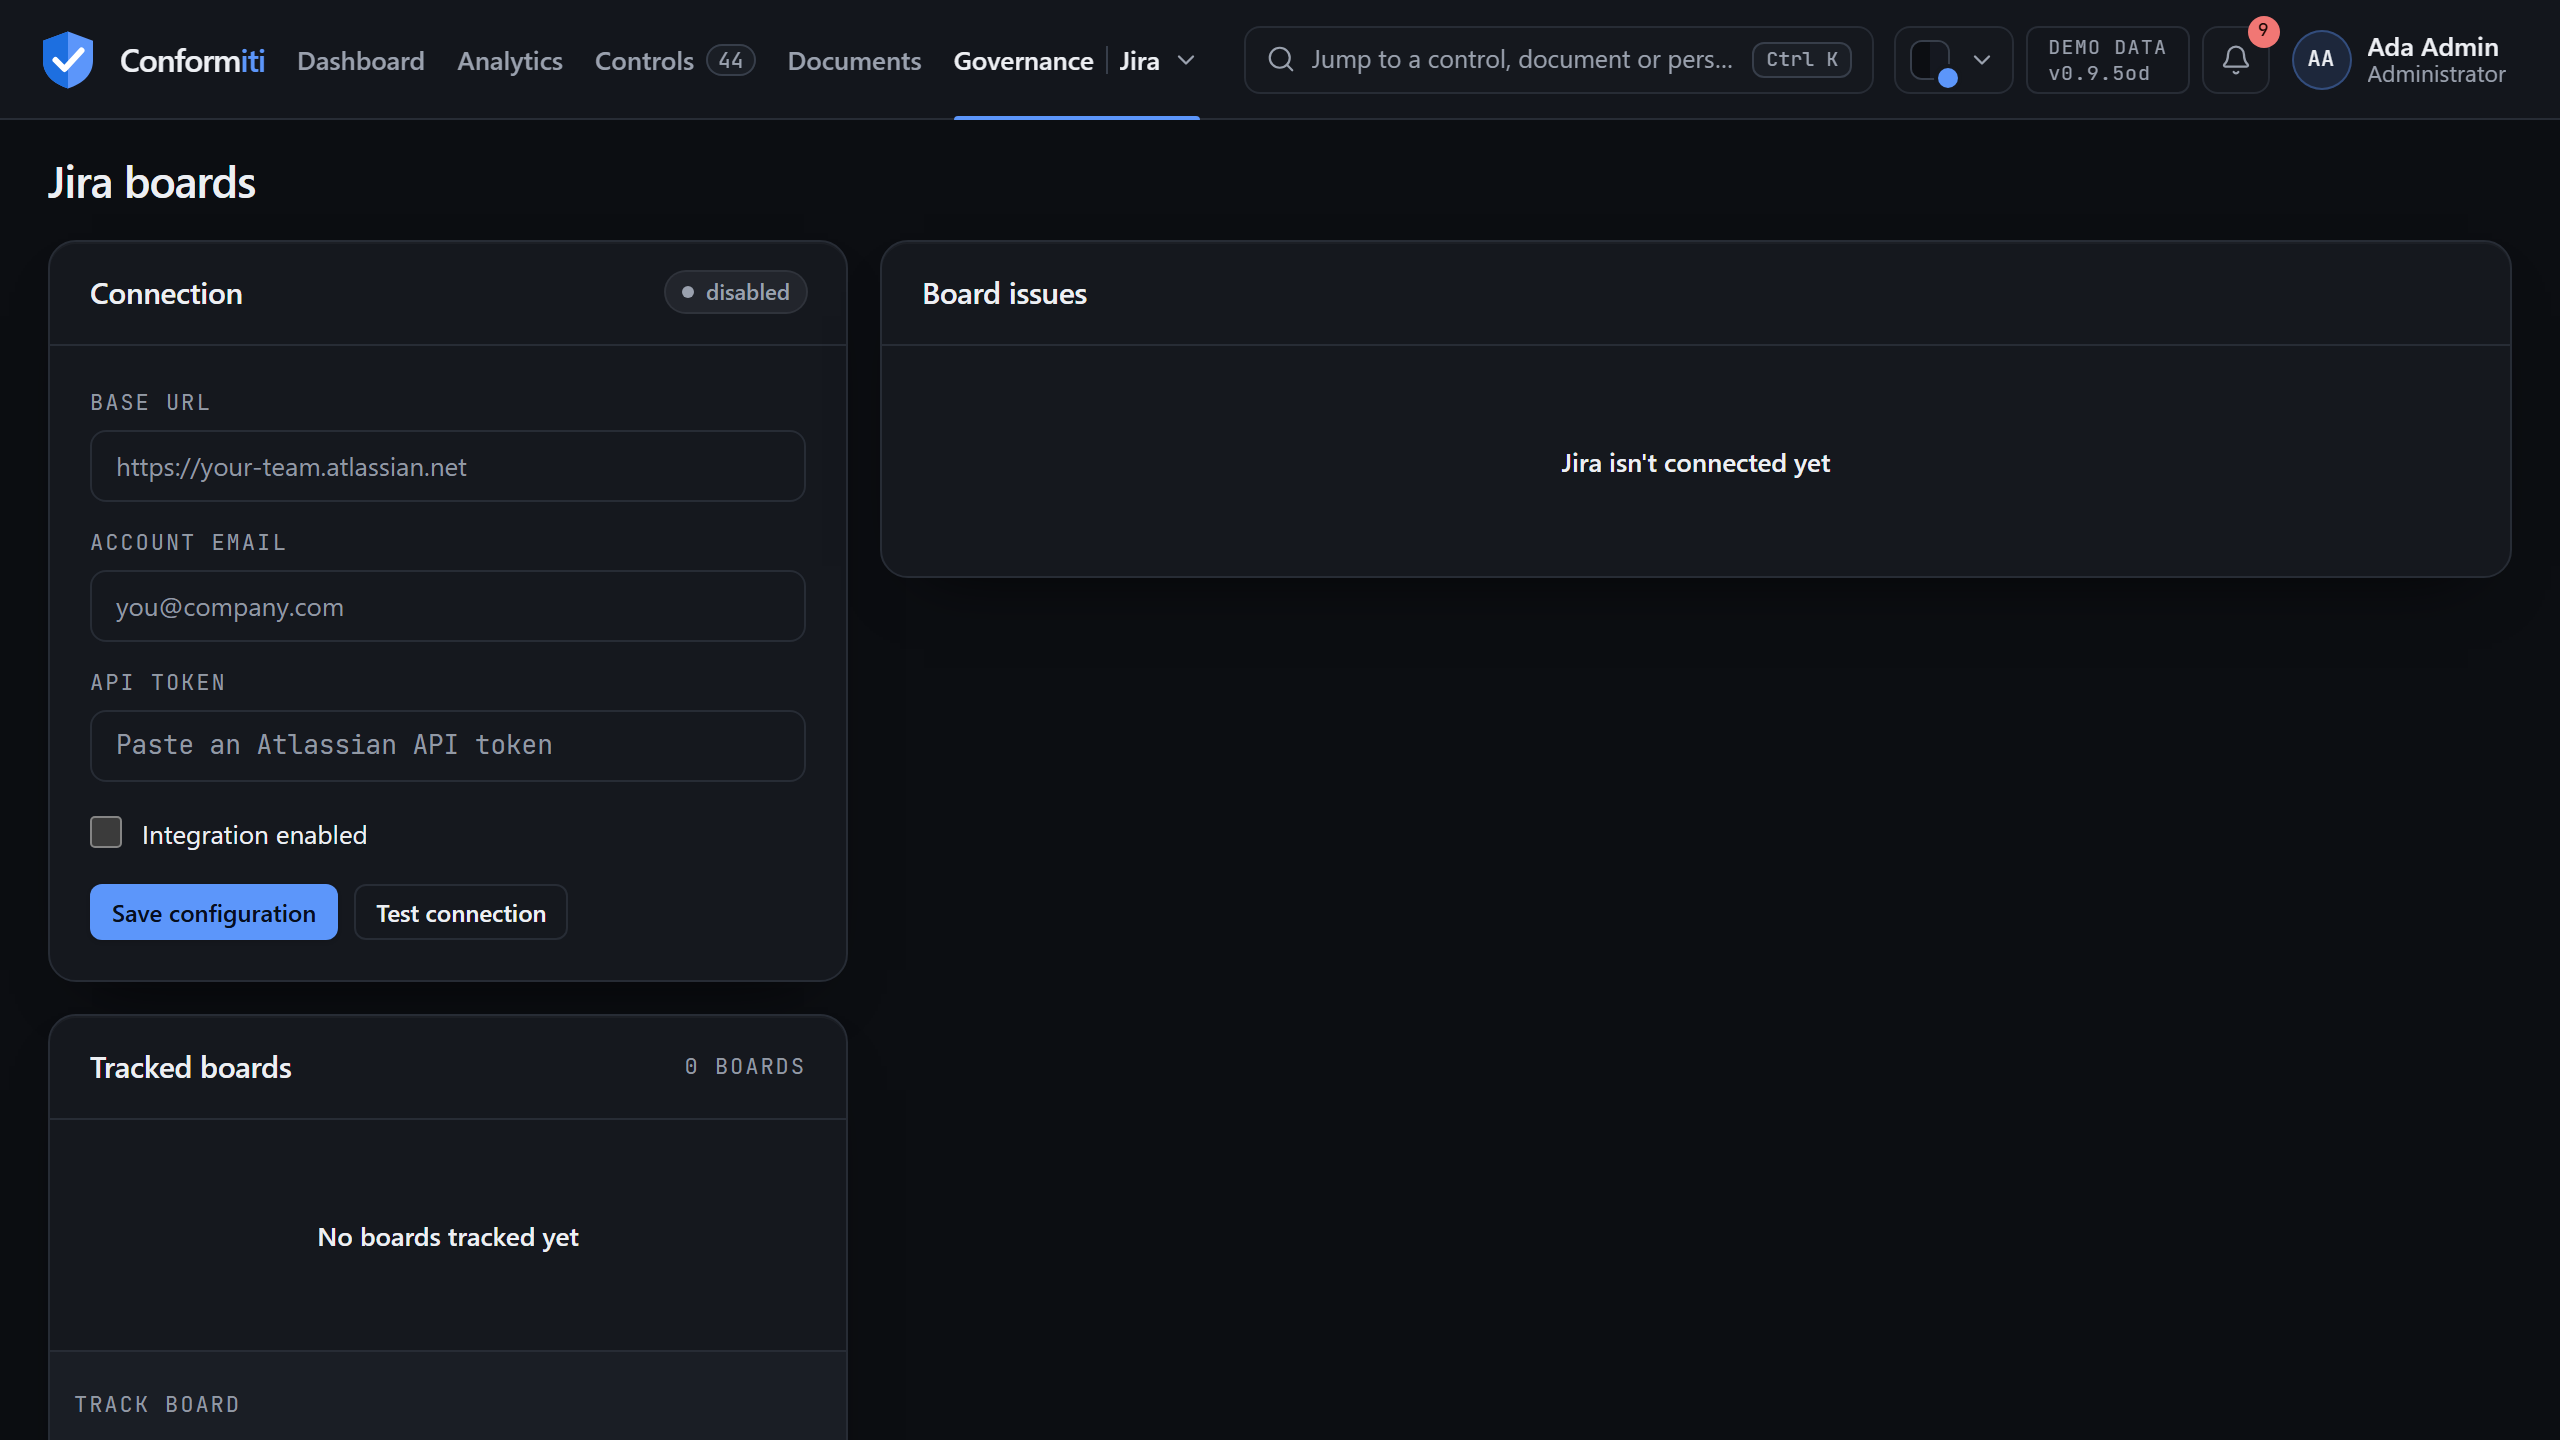
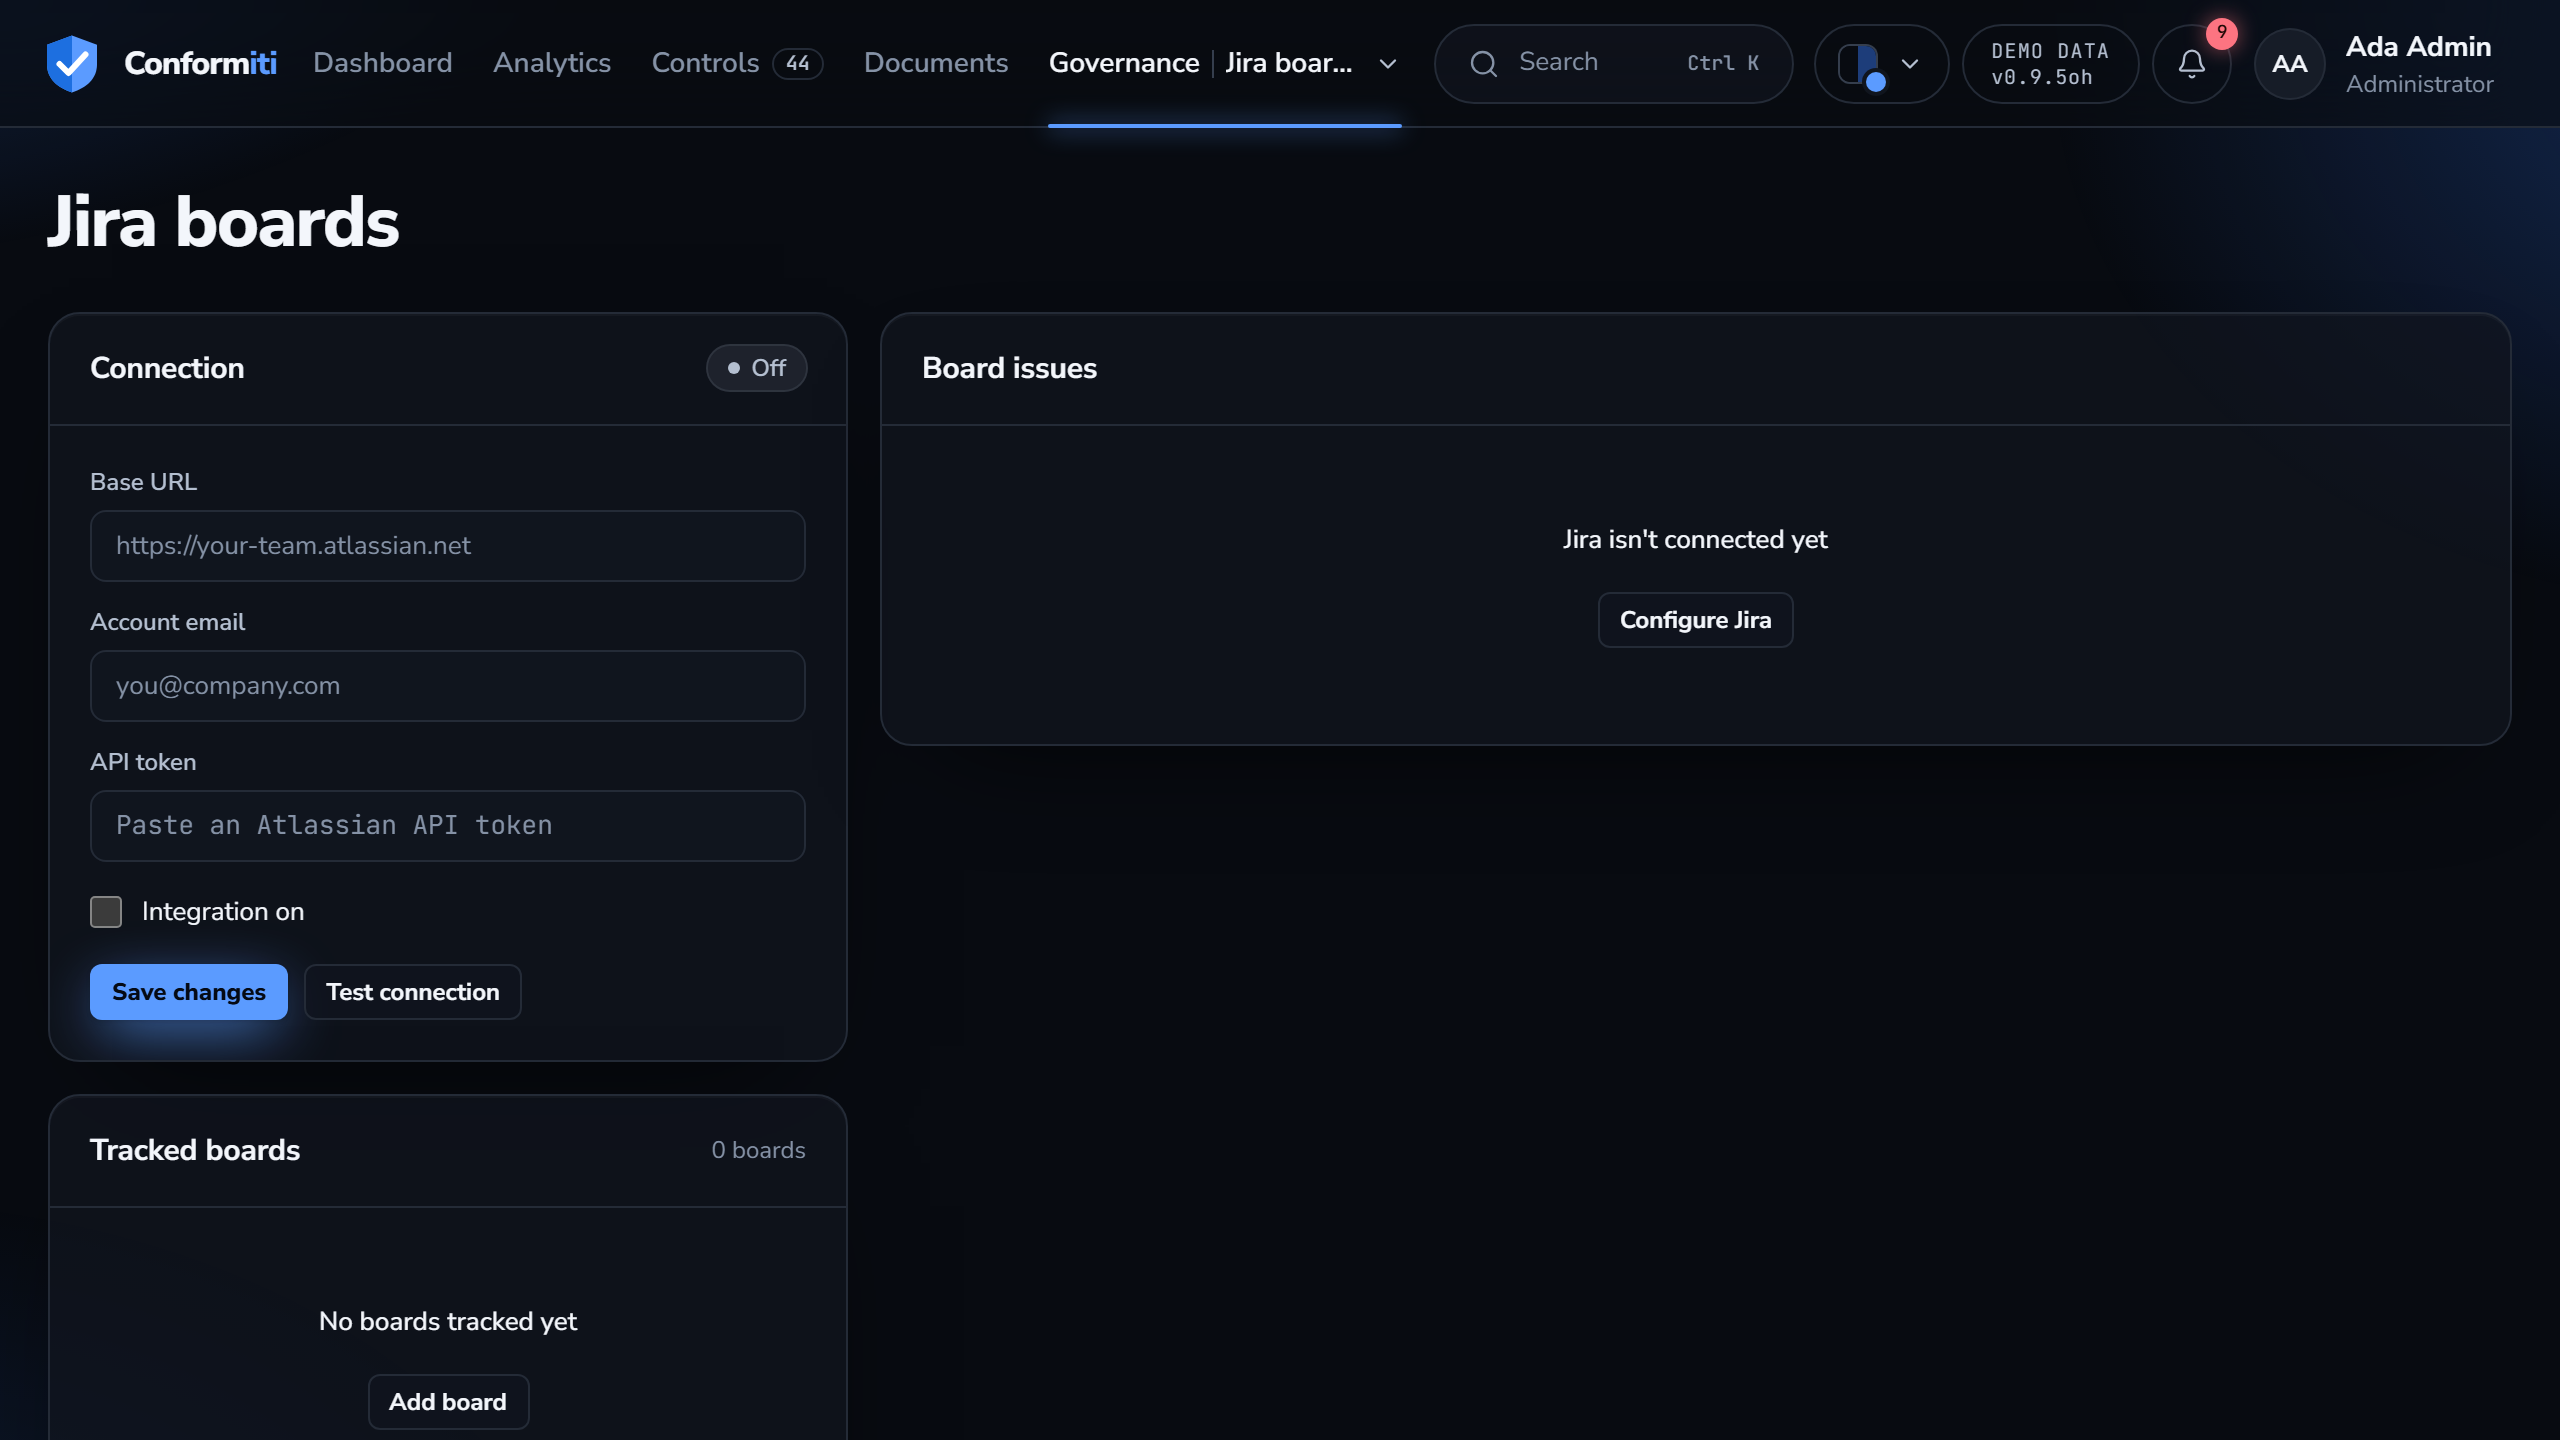
0.9.5oh: release the Conformiti theme
The version in every place it is pinned, the CHANGELOG entry and the README note, and the screenshots retaken in the
new default pack so the README shows what an install now looks like.

diff --git a/backend/config/version.py b/backend/config/version.py
@@ -1,1 +1,1 @@
-__version__ = "0.9.5og"
+__version__ = "0.9.5oh"

diff --git a/README.md b/README.md
@@ -5,7 +5,7 @@
 **Self-hosted GRC for SOC 2, ISO/IEC 27001:2022 and PCI DSS v4.0.1: controls, evidence, vendors, risk and access reviews in one audit-ready system, ending in a sealed package your assessor can verify without you.**
 
 [![CI](https://github.com/dboudreau00/Conformiti/actions/workflows/ci.yml/badge.svg)](https://github.com/dboudreau00/Conformiti/actions/workflows/ci.yml)
-[![Release](https://img.shields.io/badge/release-v0.9.5og-1D6FE0.svg)](CHANGELOG.md)
+[![Release](https://img.shields.io/badge/release-v0.9.5oh-1D6FE0.svg)](CHANGELOG.md)
 [![License: AGPL v3](https://img.shields.io/badge/License-AGPL_v3-blue.svg)](LICENSE)
 ![Python](https://img.shields.io/badge/Python-3.11%20to%203.14-3776AB?logo=python&logoColor=white)
 ![Django](https://img.shields.io/badge/Django-5.2%20LTS-092E20?logo=django&logoColor=white)
@@ -713,16 +713,16 @@ a guided first hour in [GETTING_STARTED.md](GETTING_STARTED.md).
 
 Both are built for `linux/amd64` and `linux/arm64`, so the same tag runs on an
 Ampere or Graviton VPS and on an Apple Silicon laptop. Each release is tagged
-with its version (`0.9.5og`), with the first seven characters of the commit it
+with its version (`0.9.5oh`), with the first seven characters of the commit it
 was built from (`sha-…`), and the newest release also answers to `latest`. The version an image carries
 is read out of `backend/config/version.py` at build time, which is the same
 string `/api/health/` reports, so a running container cannot claim a version
 its code is not.
 
 ```bash
-docker pull ghcr.io/dboudreau00/conformiti-backend:0.9.5og
-CONFORMITI_VERSION=0.9.5og docker compose -f docker-compose.yml -f docker-compose.ghcr.yml pull
-CONFORMITI_VERSION=0.9.5og docker compose -f docker-compose.yml -f docker-compose.ghcr.yml up -d
+docker pull ghcr.io/dboudreau00/conformiti-backend:0.9.5oh
+CONFORMITI_VERSION=0.9.5oh docker compose -f docker-compose.yml -f docker-compose.ghcr.yml pull
+CONFORMITI_VERSION=0.9.5oh docker compose -f docker-compose.yml -f docker-compose.ghcr.yml up -d
 ```
 
 `docker-compose.ghcr.yml` only swaps the four built services for the published
@@ -1033,7 +1033,7 @@ release tags; `main` is the development line. After `git fetch --tags`,
 ```bash
 scripts/backup.sh                 # first, always (Windows: from Git Bash or WSL)
 git fetch --tags
-git checkout v0.9.5og
+git checkout v0.9.5oh
 docker compose pull
 docker compose up -d --build
 ```
@@ -1063,7 +1063,7 @@ back afterwards (after the backup, as always):
 ```bash
 git stash
 git fetch --tags
-git checkout v0.9.5og
+git checkout v0.9.5oh
 git stash pop                     # settle any conflict it reports, then rebuild
 ```
 
@@ -1081,9 +1081,9 @@ sets them:
 ```bash
 scripts/backup.sh
 git fetch --tags
-git checkout v0.9.5og
+git checkout v0.9.5oh
 unset CONFORMITI_VERSION          # an exported pin overrides the one in .env
-# In .env, move the pin to the new release: CONFORMITI_VERSION=0.9.5og
+# In .env, move the pin to the new release: CONFORMITI_VERSION=0.9.5oh
 docker compose pull
 docker compose up -d
 ```
@@ -1092,7 +1092,7 @@ In Windows PowerShell, take the backup from Git Bash or WSL, and write the
 `unset` line as `$env:CONFORMITI_VERSION = $null`.
 
 Change the pin in `.env`, not on the command line. A version given inline
-(`CONFORMITI_VERSION=0.9.5og docker compose ...`) or exported lasts for that
+(`CONFORMITI_VERSION=0.9.5oh docker compose ...`) or exported lasts for that
 one command or shell. The next short-form command, an `up -d` after any
 `.env` edit or `scripts/restore.sh`, reads the old pin from `.env` again and
 puts the previous release's images back on a database the new release has
@@ -1115,6 +1115,9 @@ puts the shipped title, objective, category and order back on every control
 the framework files list, so edits to those fields (possible only in the
 Django admin) do not survive a restart. Controls you add yourself are left as
 they are.
+
+**0.9.5oh** has no migration. Conformiti, the new default theme pack, and Conformiti Light join the four packs before
+them, and a pack chosen before stays chosen. The two typefaces ship with the app and are served by the installation.
 
 **0.9.5og** has no migration. A first install run from a terminal asks whether to load the sample workspace; a
 script, a pipe and `--yes` are not asked. Outbound requests try every validated address of a name in order.

diff --git a/CHANGELOG.md b/CHANGELOG.md
@@ -11,6 +11,23 @@ says what changed and what to expect on upgrade.
 
 ---
 
+## [0.9.5oh], 2026-11-18
+
+The interface takes the Conformiti theme: the product is lit from behind, its panels are translucent over that light, and the accent glows where it marks progress or the current place. No migration.
+
+**On upgrade.**
+- No migration, and no stored data changes.
+- **Conformiti** (dark) is the new default theme pack, with **Conformiti Light** beside it. A pack chosen before stays chosen: Audit Ledger, Nimbus, Ledger Dark and Obsidian are still offered and still flat.
+- The typefaces are Nunito Sans and JetBrains Mono, bundled with the app in `frontend/src/styles/fonts` with their OFL-1.1 licences. The installation serves them itself: nothing is fetched from a third party, and the shipped CSP (`font-src 'self'`) is unchanged.
+
+**Changed.**
+- Two theme packs, Conformiti and Conformiti Light. Soft light in the accent colour comes in from the edges of the window behind translucent panels. The readiness card, the selected audit package and the sign-in card have a lit edge with light running round it; progress lines glow where they are filled and grow in when a page opens; the current tab's underline glows. In Conformiti Light the status colours and the default accent are the design's, moved toward the ink only as far as 4.5:1 as small text on their own wash needs.
+- Page headings, panel titles, buttons and badges take the new type. Page and dialog buttons are set in small capitals; small labels are in sentence case rather than mono capitals; a control's status badge carries its status mark (solid, half filled, outline, hatched) instead of a dot.
+- The top bar is 64 pixels tall, and its search, Appearance, notification and account buttons are round.
+- The dashboard puts Needs attention above the coverage atlas, gives each framework in the lead schedule a progress line (implemented, then in progress, of applicable), and heads the schedule's evidence column "Evidence".
+- A selected audit package shows its state as a seal beside its name (a lock while it is a draft, a shield once sealed, struck through once withdrawn), with its actions under it.
+- With the system's reduce-motion setting on, the light stops moving and framer-motion animations keep their fades and drop their movement.
+
 ## [0.9.5og], 2026-11-13
 
 The first boot and the Settings page point to the next step, and outbound requests survive a host with no IPv6 route. No migration.

diff --git a/INSTALL.md b/INSTALL.md
@@ -199,7 +199,7 @@ Like the base file, it needs Compose 2.24 or newer.
 in both commands, because `pull` and `up` each read it:
 
 ```bash
-export CONFORMITI_VERSION=0.9.5og
+export CONFORMITI_VERSION=0.9.5oh
 docker compose -f docker-compose.yml -f docker-compose.ghcr.yml pull
 docker compose -f docker-compose.yml -f docker-compose.ghcr.yml up -d
 ```
@@ -216,11 +216,11 @@ reads for every command run in this directory, so the short forms (and
 
 ```ini
 COMPOSE_FILE=docker-compose.yml:docker-compose.ghcr.yml
-CONFORMITI_VERSION=0.9.5og
+CONFORMITI_VERSION=0.9.5oh
 ```
 
 Keep the pin there too. The `export` above lasts for that shell, and a
-version given inline (`CONFORMITI_VERSION=0.9.5og docker compose ...`) for
+version given inline (`CONFORMITI_VERSION=0.9.5oh docker compose ...`) for
 that one command. While the export lasts it overrides `.env`, so once the pin
 is written there, run `unset CONFORMITI_VERSION` and keep the variable out of
 shell profiles: the pin in `.env` is then the one every later command reads,
@@ -253,7 +253,7 @@ nginx read the file again.
 
 To check which release a container runs, `curl -s localhost:8080/api/health/`
 reports the version compiled into the image, and
-`docker inspect ghcr.io/dboudreau00/conformiti-backend:0.9.5og` carries the
+`docker inspect ghcr.io/dboudreau00/conformiti-backend:0.9.5oh` carries the
 commit it was built from in `org.opencontainers.image.revision`.
 
 Building from source remains the default, and stays supported: the images are
